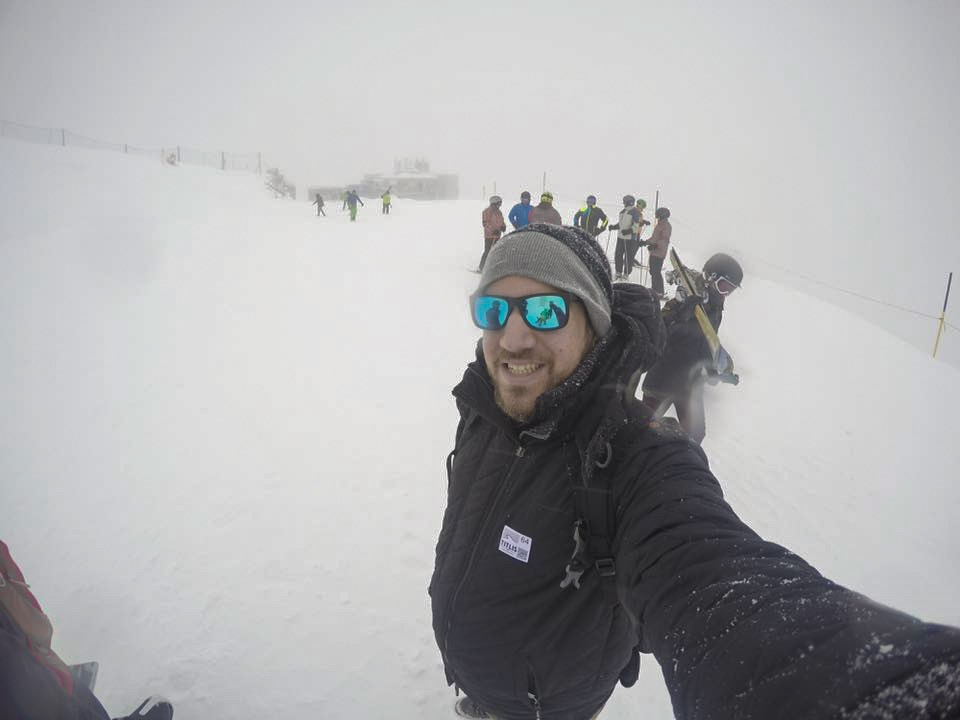
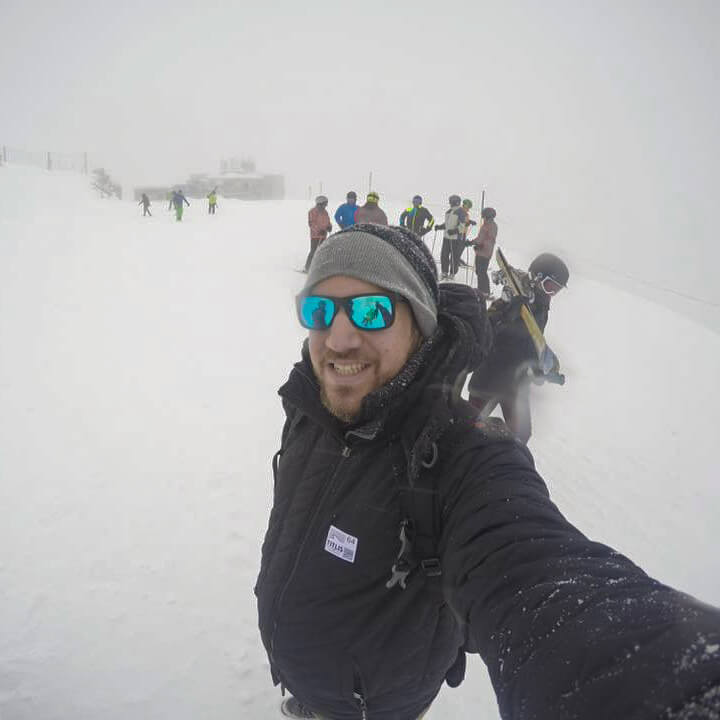
Styling fixes and updated image

diff --git a/src/components/layout/layout.styles.js b/src/components/layout/layout.styles.js
@@ -1,5 +1,15 @@
 import styled from "styled-components"
-import { spacing, spacingXl, spacing3Xl, mobile, tablet } from "../tokens"
+import {
+  spacing,
+  spacingXl,
+  spacing3Xl,
+  mobile,
+  tablet,
+  imageY,
+  imageX,
+  imageYMob,
+  imageXMob,
+} from "../tokens"
 
 export const Body = styled.div`
   position: absolute;
@@ -48,22 +58,28 @@ export const Link = styled.a`
 export const Wrapper = styled.div`
   display: flex;
 
+  @media all and (min-width: ${mobile}) {
+    position: absolute;
+    top: calc(50% - 150px);
+  }
+
   @media all and (max-width: ${mobile}) {
     display: block;
   }
 `
 
+// TODO: make a function for doing token calculations
 export const Image = styled.img`
   border-radius: 3px;
   border: 1px solid grey;
-  height: 300px;
-  width: 375px;
+  height: ${imageY};
+  width: ${imageX};
 
   @media all and (max-width: ${mobile}) {
     position: relative;
-    left: calc(50% - 93.75px);
-    height: 150px;
-    width: 187.5px;
+    left: calc(50% - 100px);
+    height: ${imageYMob};
+    width: ${imageXMob};
   }
 `
 

diff --git a/src/components/navbar/navbar.js b/src/components/navbar/navbar.js
@@ -1,16 +1,14 @@
 import React from "react"
-import { Wrapper, Left, Item, Right } from "./"
+import { NavbarWrapper, Left, Item, Right } from "./"
 
 export const Navbar = ({ isLandingPage = true }) => (
-  <Wrapper>
+  <NavbarWrapper>
     <Left>
-      <Item to="" onClick={() => (document.location.href = "/")}>
-        HG
-      </Item>
+      <Item onClick={() => (document.location.href = "/")}>HG</Item>
     </Left>
     <Right show={isLandingPage}>
       <Item onClick={() => (document.location.href = "#")}>Home</Item>
       <Item onClick={() => (document.location.href = "#blog")}>Blog</Item>
     </Right>
-  </Wrapper>
+  </NavbarWrapper>
 )

diff --git a/src/components/tokens.js b/src/components/tokens.js
@@ -7,3 +7,7 @@ export const spacingL = "40px"
 export const spacingXl = "60px"
 export const spacing2Xl = "80px"
 export const spacing3Xl = "120px"
+export const imageY = "300px"
+export const imageX = "300px"
+export const imageYMob = "200px"
+export const imageXMob = "200px"

diff --git a/src/components/navbar/navbar.styles.js b/src/components/navbar/navbar.styles.js
@@ -2,7 +2,7 @@ import styled from "styled-components"
 
 const spacing = "10px"
 
-export const Wrapper = styled.div`
+export const NavbarWrapper = styled.div`
   position: fixed;
   z-index: 2;
   width: 100%;

diff --git a/src/components/navbar/index.js b/src/components/navbar/index.js
@@ -1,2 +1,2 @@
 export { Navbar } from "./navbar"
-export { Wrapper, Left, Item, Right } from "./navbar.styles"
+export { NavbarWrapper, Left, Item, Right } from "./navbar.styles"
